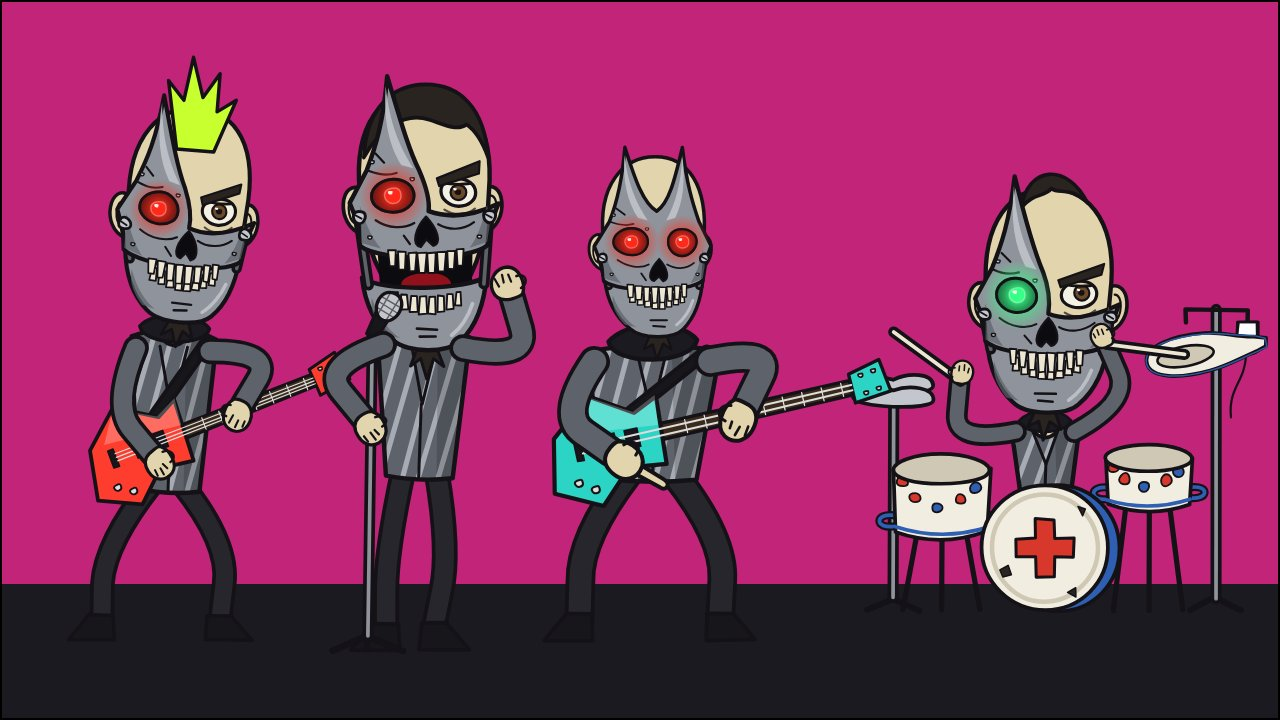
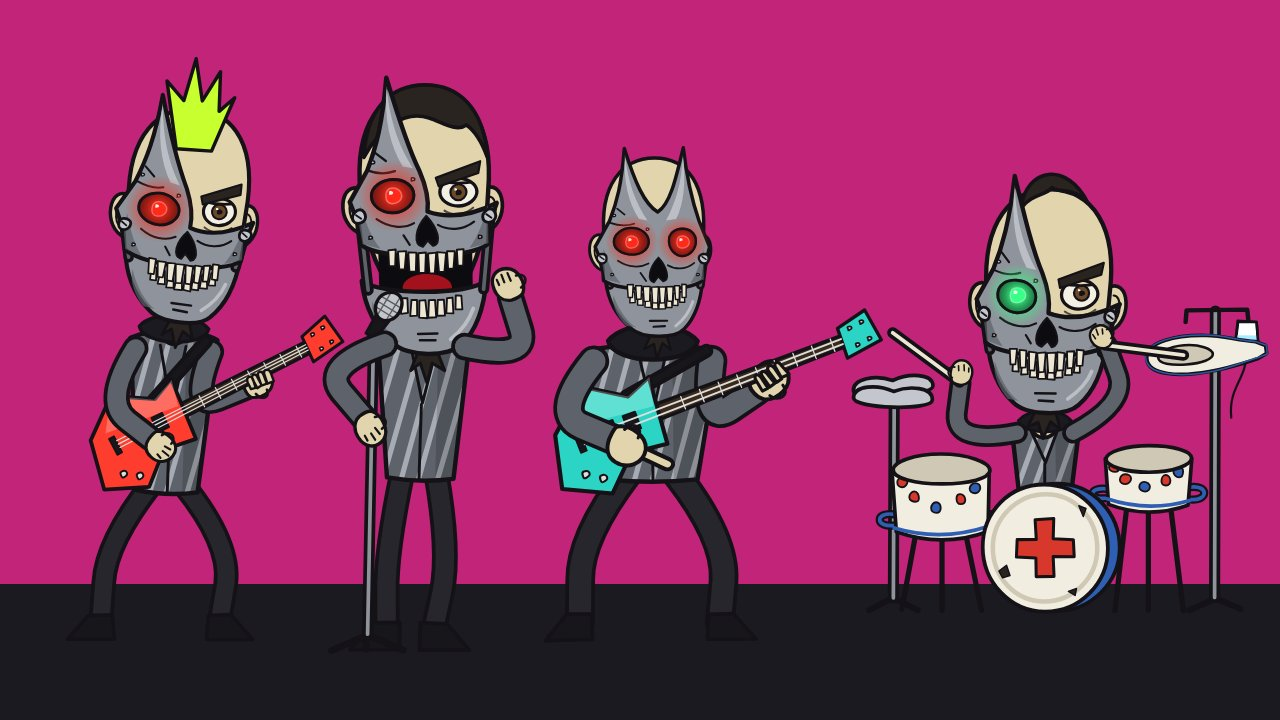
fix: the fretting hand holds the neck from under it
The guitarist's and bassist's fretting arm draped over the neck from
above, the fist on the fretboard. It now comes from under it: the elbow
hangs below the neck, the forearm and palm pass behind it, and only the
fingers lie across the fretboard from its lower edge.

- A `wrap` grip: the arm and palm are drawn before `front`, the fingers
  (`fingertips`) after it, so a figure can close a hand round what it
  holds.
- `reaching` takes an optional per-side elbow preference; the strummer
  folds the fretting elbow down.
- The guitar hangs higher and its neck tilts up more (guitar -30, bass
  -22), and the hand keeps to the neck's outer half: with the hand any
  nearer or lower, no fold of the arm puts the elbow below it. A test
  holds the elbow under the hand through the cycle.

Frames regenerated; the previous sheet kept as cast-sheet-take-1.jpg,
and cast-fretting-hand.jpg is the close-up.

Claude-Session: https://claude.ai/code/session_01MZoAKAL6Cs5jtE5GjPiRDY

diff --git a/src/clip/entities/puppet/body/ui/figure.ts b/src/clip/entities/puppet/body/ui/figure.ts
@@ -28,7 +28,7 @@ import {
   SOLE,
   STANDARD_BUILD,
 } from '../model/pose';
-import { type Grip, hand } from './hands';
+import { fingertips, type Grip, hand } from './hands';
 import { collar, type Outfit, OUTFIT_GRIP, trim } from './outfits';
 import { OUTFIT_PALETTE } from './palette-outfit';
 
@@ -53,7 +53,10 @@ export type Dress = Worn & {
   held?: Partial<Record<Side, (wrist: Point, forearm: number) => void>>;
   /** Drawn behind the whole figure, in the puppet's units. */
   behind?: () => void;
-  /** Drawn over the body and head and under both arms: what the hands are on. */
+  /**
+   * Drawn over the body and head and under the arms: what the hands are on.
+   * A `wrap` hand's arm goes under it too, and only its fingers over.
+   */
   front?: () => void;
   /** Arms that pass behind the torso instead of in front of it. */
   tucked?: readonly Side[];
@@ -125,32 +128,31 @@ export function figure(pen: Pen, pose: Pose, dress: Dress = {}): void {
   const { size } = build;
   const heft = heftOf(build);
 
+  const armSeedOf = (side: Side) => seed + (side === 'L' ? 60 : 70);
+  const atHand = (side: Side, draw: () => void) => {
+    const [, elbow, wrist] = armOf(pose, side);
+    const forearm = heading(elbow, wrist);
+    const place = { x: wrist[0], y: wrist[1], rot: forearm, scale: heft };
+    at(pen, { ...place, flip: side === 'L' }, draw);
+  };
   const arm = (side: Side) => {
     const [shoulder, elbow, wrist] = armOf(pose, side);
-    const armSeed = seed + (side === 'L' ? 60 : 70);
+    const armSeed = armSeedOf(side);
     limb(pen, [shoulder, elbow, wrist], colors.body, ARM_WIDTH * heft, armSeed);
-    const forearm = heading(elbow, wrist);
-    held[side]?.(wrist, forearm);
-    at(
-      pen,
-      {
-        x: wrist[0],
-        y: wrist[1],
-        rot: forearm,
-        scale: heft,
-        flip: side === 'L',
-      },
-      () => {
-        hand(
-          pen,
-          grips[side] ?? OUTFIT_GRIP[outfit],
-          colors.body,
-          armSeed + 1,
-          colors.stripe,
-        );
-      },
-    );
+    held[side]?.(wrist, heading(elbow, wrist));
+    atHand(side, () => {
+      hand(
+        pen,
+        grips[side] ?? OUTFIT_GRIP[outfit],
+        colors.body,
+        armSeed + 1,
+        colors.stripe,
+      );
+    });
   };
+  // A wrapping hand's arm goes under what `front` draws, its fingers over it.
+  const wraps = (side: Side) =>
+    grips[side] === 'wrap' && !tucked.includes(side);
 
   behind?.();
   for (const side of SIDES) if (tucked.includes(side)) arm(side);
@@ -220,6 +222,16 @@ export function figure(pen: Pen, pose: Pose, dress: Dress = {}): void {
     },
   );
 
+  for (const side of SIDES) if (wraps(side)) arm(side);
   front?.();
-  for (const side of SIDES) if (!tucked.includes(side)) arm(side);
+  for (const side of SIDES) {
+    if (!tucked.includes(side) && !wraps(side)) arm(side);
+  }
+  for (const side of SIDES) {
+    if (wraps(side)) {
+      atHand(side, () => {
+        fingertips(pen, armSeedOf(side) + 3);
+      });
+    }
+  }
 }

diff --git a/src/clip/entities/puppet/band/model/playing.ts b/src/clip/entities/puppet/band/model/playing.ts
@@ -37,6 +37,19 @@ const frac = (value: number): number => value - Math.floor(value);
 export const thump = (phase: number): number =>
   phase < 0.06 ? phase / 0.06 : Math.exp(-4.5 * (phase - 0.06));
 
+// The fretting hand frets from under the neck, the elbow hanging below it,
+// which an arm can only do with the hand well out from the shoulder and not
+// far below it: so the guitar hangs this far from the shoulders to the hips,
+// its neck tilted up this many degrees, and the hand keeps to the neck's
+// outer half.
+const HANG = 0.6;
+const GUITAR_TILT = -30;
+const BASS_TILT = -22;
+// How far under the strings, in the guitar's units, the neck's lower edge is.
+const NECK_EDGE = 9;
+// Which way the fretting elbow folds: down, a little towards the body.
+const FRETTING_ELBOW: Point = [-0.2, 1];
+
 /** What every player's cycle gives: a pose already fitted to its build, and a face. */
 type Playing = {
   rig: Pose;
@@ -78,12 +91,12 @@ export function strumming(strings: Strings, beats: number): Strumming {
   const belly = mix(
     mix(body.shoulderL, body.shoulderR, 0.5),
     mix(body.hipL, body.hipR, 0.5),
-    0.72,
+    HANG,
   );
   const guitar = {
     x: belly[0] - (bass ? 52 : 36) * size,
     y: belly[1],
-    rot: (bass ? -14 : -24) + (bass ? 1 : 3) * stroke,
+    rot: (bass ? BASS_TILT : GUITAR_TILT) + (bass ? 1 : 3) * stroke,
     scale: (bass ? 1.15 : 1.1) * size,
   };
   const onBody = (point: Point): Point =>
@@ -101,9 +114,12 @@ export function strumming(strings: Strings, beats: number): Strumming {
       body,
       {
         L: onBody(picking),
-        R: onBody(add(fretAt(strings, lerp(0.15, 0.8, chord)), [0, 4])),
+        // The fretting palm closes on the neck's lower edge, coming up from
+        // under it, the elbow hanging below.
+        R: onBody(add(fretAt(strings, lerp(0.45, 0.9, chord)), [0, NECK_EDGE])),
       },
       palmOf(build),
+      { R: FRETTING_ELBOW },
     ),
     look: bass
       ? { turn: 0.8 * Math.sin((Math.PI * beats) / 2) }

diff --git a/src/clip/entities/puppet/body/ui/hands.ts b/src/clip/entities/puppet/body/ui/hands.ts
@@ -1,8 +1,12 @@
 import { ink, INK_PALETTE, path, type Pen } from '@/clip/shared/ink';
 
-export const GRIPS = ['fist', 'open', 'point', 'sleeve'] as const;
+export const GRIPS = ['fist', 'open', 'point', 'sleeve', 'wrap'] as const;
 
-/** What a hand is doing; `sleeve` is a straitjacket's, the hand lost inside it. */
+/**
+ * What a hand is doing; `sleeve` is a straitjacket's, the hand lost inside it.
+ * `wrap` closes round what `front` draws, as a fretting hand on a neck: the
+ * palm under it, the fingers (`fingertips`) over it.
+ */
 export type Grip = (typeof GRIPS)[number];
 
 // A right hand in its own units: the wrist at the origin, the fingers down the
@@ -19,6 +23,21 @@ const PALM_LINES = path('M -9,26 C -2,32 8,32 13,26');
 const FINGER = path('M -6,30 L -6,68 C -6,77 5,77 5,68 L 6,30 Z');
 const CUFF = path('M -17,-6 L -22,58 C -10,72 12,72 22,58 L 17,-6 Z');
 const STRAP = path('M 0,66 C 10,84 -8,98 2,122');
+// A wrapping hand's fingers, held across the forearm as on a neck it runs
+// along: up from the palm's edge onto the front of what it holds.
+const FINGERTIPS = path(
+  [8, 17, 26, 35]
+    .map(
+      (y) =>
+        `M -6,${y - 4} L 7,${y - 4} C 15,${y - 4} 15,${y + 4} 7,${y + 4} L -6,${y + 4} Z`,
+    )
+    .join(' '),
+);
+
+/** The fingers of a `wrap` hand, in the hand's own units: drawn after what they close over. */
+export function fingertips(pen: Pen, seed: number): void {
+  ink(pen, FINGERTIPS, { fill: INK_PALETTE.skin, width: 3.5, seed });
+}
 
 /** A hand at the origin, fingers down the y axis; place and turn it with `at`. */
 export function hand(
@@ -43,6 +62,11 @@ export function hand(
     }
     case 'point': {
       ink(pen, FINGER, skin);
+      ink(pen, FIST, skin);
+      ink(pen, THUMB, { width: 3.5, seed: seed + 2 });
+      break;
+    }
+    case 'wrap': {
       ink(pen, FIST, skin);
       ink(pen, THUMB, { width: 3.5, seed: seed + 2 });
       break;

diff --git a/src/clip/entities/puppet/body/model/pose.ts b/src/clip/entities/puppet/body/model/pose.ts
@@ -126,9 +126,16 @@ export type Reach = Partial<Record<Side, Point>>;
  * to suit, the arm keeping the bone lengths it has in `pose`. A target out of
  * reach leaves the arm straight towards it. `palm` is how far past the wrist,
  * along the forearm, the point that lands on the target is: 0 the wrist
- * itself, a fist's depth for a hand closing on something.
+ * itself, a fist's depth for a hand closing on something. `elbows` names,
+ * per side, the direction that elbow would rather fold towards, in place of
+ * the default out and a little down.
  */
-export function reaching(pose: Pose, hands: Reach, palm = 0): Pose {
+export function reaching(
+  pose: Pose,
+  hands: Reach,
+  palm = 0,
+  elbows: Reach = {},
+): Pose {
   const arms = { ...pose };
   for (const side of SIDES) {
     const target = hands[side];
@@ -140,7 +147,7 @@ export function reaching(pose: Pose, hands: Reach, palm = 0): Pose {
         aim,
         distance(shoulder, elbow),
         distance(elbow, wrist),
-        ELBOW_PREFERS[side],
+        elbows[side] ?? ELBOW_PREFERS[side],
       );
     // The forearm's direction is only known once the arm is folded, so the
     // wrist is aimed twice: at the target, then short of it by the palm.

diff --git a/src/clip/entities/puppet/band/model/playing.test.ts b/src/clip/entities/puppet/band/model/playing.test.ts
@@ -38,6 +38,15 @@ describe('strumming', () => {
     }
   });
 
+  it('frets from under the neck, the elbow hanging below the hand', () => {
+    for (const strings of ['guitar', 'bass'] as const) {
+      for (const beats of [0, 0.3, 1.6, 5.2, 9.9]) {
+        const { rig: pose } = strumming(strings, beats);
+        assert.ok(pose.elbowR[1] > pose.wristR[1] + 20);
+      }
+    }
+  });
+
   it('rings hardest on the beat', () => {
     assert.ok(
       strumming('guitar', 2.06).ringing > strumming('guitar', 2.6).ringing,

diff --git a/src/clip/entities/puppet/band/ui/player.ts b/src/clip/entities/puppet/band/ui/player.ts
@@ -60,7 +60,7 @@ export function player(pen: Pen, role: Role, options: PlayerOptions): void {
         figure(pen, pose, {
           ...dress,
           look: face(playing.look),
-          grips: { L: role === 'bass' ? 'point' : 'fist', R: 'fist' },
+          grips: { L: role === 'bass' ? 'point' : 'fist', R: 'wrap' },
           front: () => {
             limb(
               pen,
